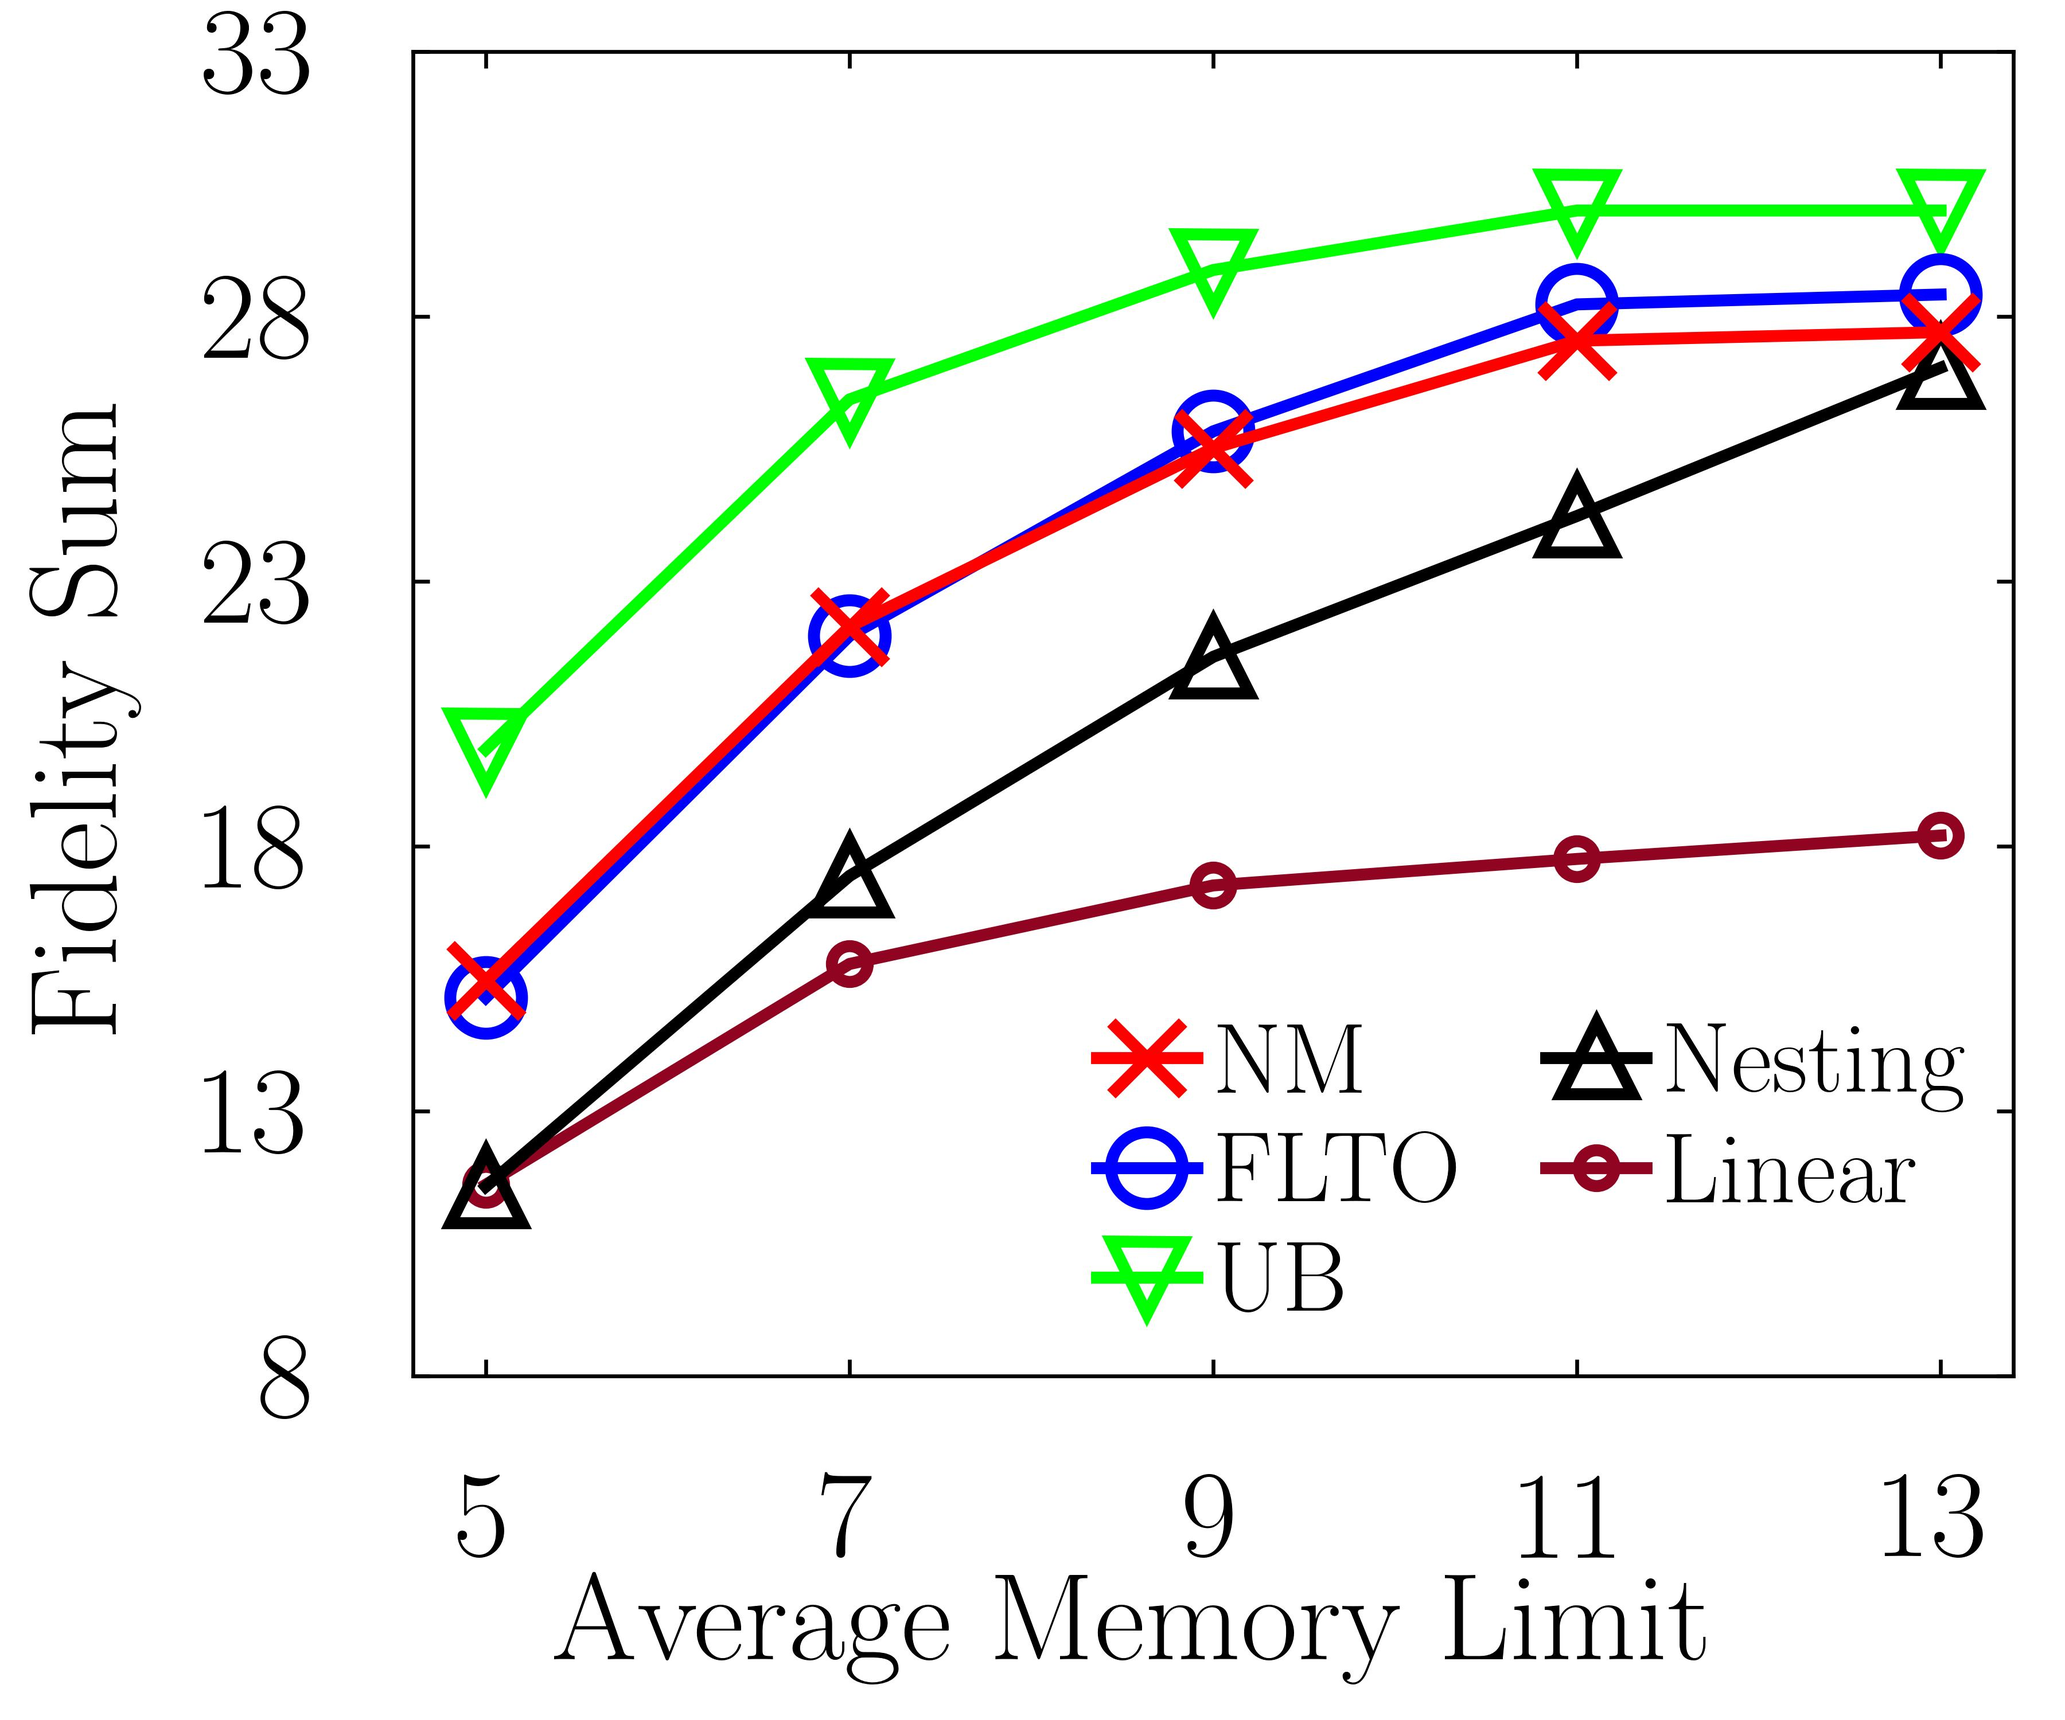
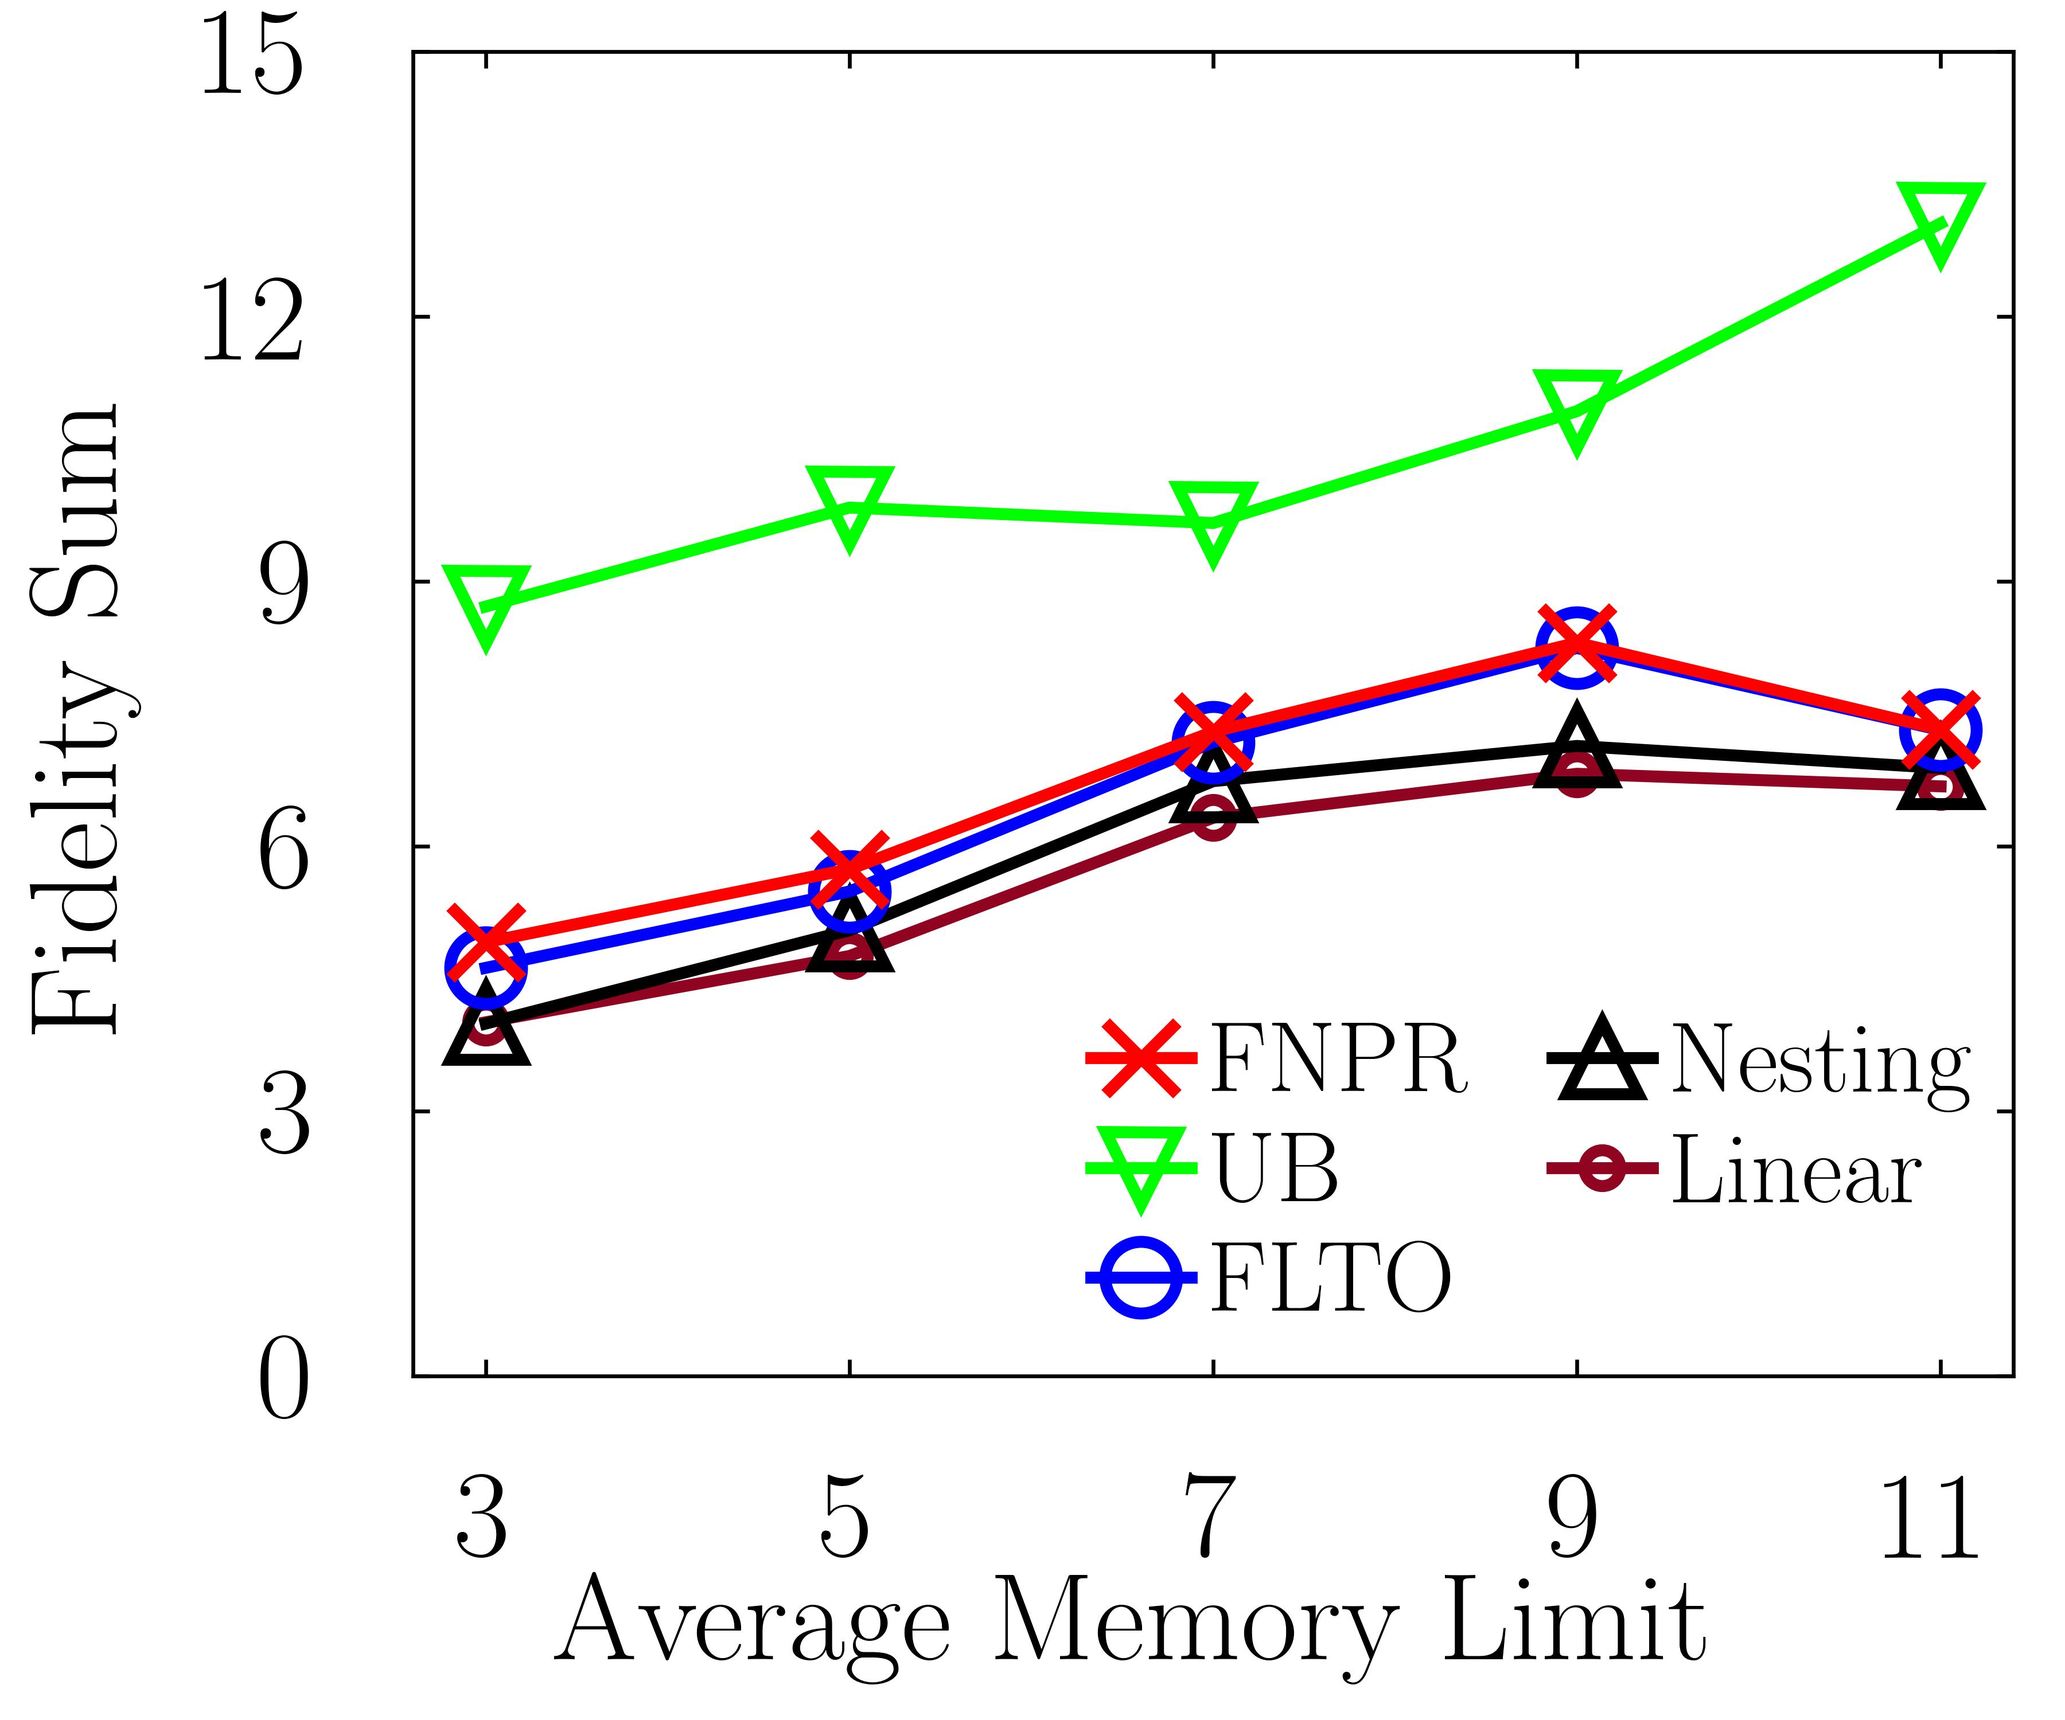
compile REPS

diff --git a/src/Network/PathMethod/REPS/REPS.cpp b/src/Network/PathMethod/REPS/REPS.cpp
@@ -15,57 +15,140 @@ void REPS::PFT_LP(vector<double> &t_plum, vector<map<pair<int, int>, double>> &f
     f_plum.clear();
     
     //do LP
-try {
+    try {
+        // Create an environment
+        GRBEnv env = GRBEnv(true);
+        env.set("OutputFlag", "0");
+        env.start();
 
-    // Create an environment
-    GRBEnv env = GRBEnv(true);
-    env.set("LogFile", "mip1.log");
-    env.start();
+        // Create an empty model
+        GRBModel model = GRBModel(env);
 
-    // Create an empty model
-        vector<map<pair<int, int>, GRBVar>> f(1000);    //fi(u, v)
-    GRBModel model = GRBModel(env);
-    for(int i = 0; i < 100; i++){
-        for(int u = 0; u < 100; u++){
-            for(int v = 0; v < 100; v++){
-                                f[i][make_pair(u, v)] = model.addVar(0.0, GRB_INFINITY, 0.0, GRB_CONTINUOUS, "f" + to_string(i) + "("+to_string(u)+", "+to_string(v) + ")");
-                        }
+        // Create variables
+        
+        
+        vector<map<pair<int, int>, GRBVar>> f(requests.size());    //fi(u, v)
+        for(int i = 0;i < (int)requests.size(); i++){
+            for(int u = 0; u < graph.get_num_nodes(); u++){
+                for(int v : graph.adj_list[u]){
+                    f[i][make_pair(u, v)] = model.addVar(0.0, GRB_INFINITY, 0.0, GRB_CONTINUOUS, "f" + to_string(i) + "(" + to_string(u) + ", " + to_string(v) + ")");
+                }
+            }
         }
-    }
+
+
+        vector<GRBVar> t;   //ti
+        for(int i = 0; i < (int)requests.size(); i++){
+            t.emplace_back(model.addVar(0.0, GRB_INFINITY, 0.0, GRB_CONTINUOUS, "t" + to_string(i)));
+        }
+
+        map<pair<int, int>, GRBVar> x; //x(u, v)
+        for(int u = 0; u < graph.get_num_nodes(); u++){
+            for(int v : graph.adj_list[u]) {
+                x[make_pair(u, v)] = model.addVar(0.0, GRB_INFINITY, 0.0, GRB_CONTINUOUS, "x(" + to_string(u) + ", " + to_string(v) + ")");
+            }
+        }
+
+        // Set objective: 
+        // maximize sum(ti)
         GRBLinExpr expr = 0;
+        for (auto ti : t)
+            expr += ti;
+        
+        model.setObjective(expr, GRB_MAXIMIZE);
 
-    // Create variables
-    GRBVar x = model.addVar(0.0, 1.0, 0.0, GRB_BINARY, "x");
-    GRBVar y = model.addVar(0.0, 1.0, 0.0, GRB_BINARY, "y");
-    GRBVar z = model.addVar(0.0, 1.0, 0.0, GRB_BINARY, "z");
+        // Add constraint: 1(a) 
+        for(int i=0;i<(int)requests.size();i++){
+            GRBLinExpr expr = 0;
+            int u = requests[i].first;
+            for(int v : graph.adj_list[u]){
+                expr += f[i][make_pair(u, v)];
+                expr -= f[i][make_pair(v, u)];
+            }
+            model.addConstr(expr == t[i], "1a_" + to_string(i));
+        }
 
-    // Set objective: maximize x + y + 2 z
-    model.setObjective(x + y + 2 * z, GRB_MAXIMIZE);
+        // Add constraint: 1(b) 
+        for(int i=0;i<(int)requests.size();i++){
+            expr = 0;
+            int u = requests[i].second;
+            for(int v : graph.adj_list[u]){
+                expr += f[i][make_pair(u, v)];
+                expr -= f[i][make_pair(v, u)];
+            }
+            model.addConstr(expr == GRBLinExpr(t[i], -1.0), "1b_"+ to_string(i));
+        }
 
-    // Add constraint: x + 2 y + 3 z <= 4
-    model.addConstr(x + 2 * y + 3 * z <= 4, "c0");
+        // Add constraint: 1(c) 
+        for(int i = 0; i < (int)requests.size(); i++){
+            expr = 0;
+            for(int u = 0; u < graph.get_num_nodes();u++){
+                if(u == requests[i].first)continue;
+                if(u == requests[i].second)continue;
+                for(int v : graph.adj_list[u]){
+                    expr += f[i][make_pair(u, v)];
+                    expr -= f[i][make_pair(v, u)];
+                }
+                model.addConstr(expr == 0, "1c(" + to_string(i) + ", " + to_string(u) + ")");
+            }
+        }
 
-    // Add constraint: x + y >= 1
-    model.addConstr(x + y >= 1, "c1");
+        // Add constraint: 1(d) 
+        for(int u = 0; u < graph.get_num_nodes(); u++){
+            for(int v : graph.adj_list[u]){
+                expr = 0;
+                for(int i = 0; i < (int)requests.size(); i++){
+                    expr += f[i][make_pair(u, v)];
+                    expr += f[i][make_pair(v, u)];
+                }
+                double p = graph.get_entangle_succ_prob(u, v);
+                model.addConstr(expr <= (x[make_pair(u, v)] * p), "1d(" + to_string(u) + ", " + to_string(v) + ")");
+            }
+        }
 
-    // Optimize model
-    model.optimize();
+        // Add constraint: 1(e) 
+        // for(int u = 0; u < graph.get_num_nodes(); u++){
+        //     for(int v : graph.adj_list[u]){
+        //         int c = INF;
+        //         model.addConstr(x[make_pair(u, v)] <= c, "1e(" + to_string(u) + ", " + to_string(v) + ")");
+        //     }
+        // }
 
-    cout << x.get(GRB_StringAttr_VarName) << " "
-         << x.get(GRB_DoubleAttr_X) << endl;
-    cout << y.get(GRB_StringAttr_VarName) << " "
-         << y.get(GRB_DoubleAttr_X) << endl;
-    cout << z.get(GRB_StringAttr_VarName) << " "
-         << z.get(GRB_DoubleAttr_X) << endl;
+        // Add constraint: 1(f) 
+        for(int  u = 0; u < graph.get_num_nodes(); u++){
+            expr = 0;
+            int m = graph.get_node_memory(u);
+            for(int v : graph.adj_list[u]){
+                expr += x[make_pair(u, v)];
+            }
+            model.addConstr(expr <= m, "1f(" + to_string(u) + ")");
+        }
 
-    cout << "Obj: " << model.get(GRB_DoubleAttr_ObjVal) << endl;
+        // Optimize model
+        model.optimize();
 
-  } catch(GRBException e) {
-    cout << "Error code = " << e.getErrorCode() << endl;
-    cout << e.getMessage() << endl;
-  } catch(...) {
-    cout << "Exception during optimization" << endl;
-  }
+        //get t
+        for(int i=0;i<(int)requests.size();i++){
+            t_plum.emplace_back(t[i].get(GRB_DoubleAttr_X));
+        }
+
+        //get fi
+        f_plum.resize(requests.size());
+        for(int i = 0; i < (int)requests.size(); i++) {
+            for(int u = 0; u < graph.get_num_nodes(); u++) {
+                for(int v : graph.adj_list[u]) {
+                    f_plum[i][make_pair(u, v)] = f[i][make_pair(u, v)].get(GRB_DoubleAttr_X);
+                }
+            }
+        }
+        cout << "Obj: " << model.get(GRB_DoubleAttr_ObjVal) << endl;
+
+    } catch(GRBException e) {
+        cout << "Error code = " << e.getErrorCode() << endl;
+        cout << e.getMessage() << endl;
+    }catch(...) {
+        cout << "Exception during optimization" << endl;
+    }
 }
 
 void REPS::build_paths(Graph _graph, vector<SDpair> _requests) {

diff --git a/plot/ChartGeneratorAuto.py b/plot/ChartGeneratorAuto.py
@@ -9,7 +9,7 @@ from matplotlib.offsetbox import AnchoredOffsetbox, TextArea, HPacker, VPacker
 
 class ChartGenerator:
     # data檔名 Y軸名稱 X軸名稱 Y軸要除多少(10的多少次方) Y軸起始座標 Y軸終止座標 Y軸座標間的間隔
-    def __init__(self, dataName, Xlabel, Ylabel, Xpow, Ypow, Ystart, Yend, Yinterval):
+    def __init__(self, dataName, Xlabel, Ylabel):
         filename = '../data/ans/Greedy_' + dataName
 
         if not os.path.exists(filename):
@@ -117,6 +117,15 @@ class ChartGenerator:
         maxData = 0
         minData = math.inf
 
+        Ypow = 0
+        Xpow = 0
+
+        for i in range(-10, -1, 1):
+            if i == 5:
+                continue
+            if float(x[numOfData - 1]) <= 10 ** i:
+                Xpow = (i - 2)
+
         Ydiv = float(10 ** Ypow)
         Xdiv = float(10 ** Xpow)
         
@@ -124,37 +133,42 @@ class ChartGenerator:
             x[i] = float(x[i]) / Xdiv
 
         for i in range(numOfAlgo):
+            if i == 5:
+                continue
             for j in range(numOfData):
                 y[i][j] = float(y[i][j]) / Ydiv
                 maxData = max(maxData, y[i][j])
                 minData = min(minData, y[i][j])
 
+
+        Yend = math.ceil(maxData)
+        Ystart = 0
+        Yinterval = (Yend - Ystart) / 5
+
+        if maxData > 1.1:
+            Yinterval = int(math.ceil(Yinterval))
+            Yend = int(Yend)
+        else:
+            Yend = 1
+            Ystart = 0
+            Yinterval = 0.2
+
+
         marker = ['x', 'v', 'o', '^', '.']
 
-        Per = [0, 1, 2, 3, 4, 5]
         # for i in range(numOfAlgo - 1, -1, -1):
-        for _ in range(numOfAlgo):
-            i = Per[_]
-            if _ == 5:
+        for i in range(numOfAlgo):
+            if i == 5:
                 continue
-            ax1.plot(x, y[i], color = color[i], lw = 2.5, linestyle = "-", marker = marker[i], markersize = 15, markerfacecolor = "none", markeredgewidth = 2.5, zorder = -_)
+            ax1.plot(x, y[i], color = color[i], lw = 2.5, linestyle = "-", marker = marker[i], markersize = 15, markerfacecolor = "none", markeredgewidth = 2.5, zorder = -i)
         # plt.show()
 
         plt.xticks(fontsize = Xticks_fontsize)
         plt.yticks(fontsize = Yticks_fontsize)
         
-        Per_AlgoName = ["FNPR", "UB", "FLTO", "Nesting", "Linear", "Path"]
-        
-        AlgoName = [0] * (numOfAlgo)
-        for _ in range(numOfAlgo):
-            if _ == 5:
-                continue
-            AlgoName[_] = Per_AlgoName[Per[_]]
-        
-        if "tau" in Xlabel:
-            bbox_pos = (0.3, 0.15)
-        else:
-            bbox_pos = (0.7, 0.15)
+        AlgoName = ["FNPR", "UB", "FLTO", "Nesting", "Linear"]
+                
+        bbox_pos = (0.7, 0.15)
         leg = plt.legend(
             AlgoName,
             loc = 10,
@@ -209,7 +223,7 @@ class ChartGenerator:
 if __name__ == "__main__":
     # data檔名 Y軸名稱 X軸名稱 Y軸要除多少(10的多少次方) Y軸起始座標 Y軸終止座標 Y軸座標間的間隔
     # ChartGenerator("numOfnodes_waitingTime.txt", "need #round", "#Request of a round", 0, 0, 25, 5)
-    Xlabels = ["request_cnt", "time_limit", "fidelity_threshold", "path_length", "avg_memory", "min_fidelity"]
+    Xlabels = ["request_cnt", "time_limit", "fidelity_threshold", "path_length", "avg_memory", "min_fidelity", "tao"]
     Ylabels = ["fidelity_gain", "succ_request_cnt"]
     # Ylabels = ["fidelity_gain"]
     # vector<string> X_names = {"request_cnt", "time_limit", "fidelity_threshold", "path_length", "avg_memory", "min_fidelity"};
@@ -221,6 +235,7 @@ if __name__ == "__main__":
     LabelsName["avg_memory"] = "Average Memory Limit"
     LabelsName["fidelity_threshold"] = "fidelity threshold"
     LabelsName["path_length"] = "path length"
+    LabelsName["tao"] = "$\\tau$"
     LabelsName["fidelity_gain"] = " Fidelity Sum"
     LabelsName["succ_request_cnt"] = "\#Accepted Requests"
     LabelsName["utilization"] = "Memory Utilization (\%)"
@@ -229,59 +244,4 @@ if __name__ == "__main__":
     for Xlabel in Xlabels:
         for Ylabel in Ylabels:
             dataFileName = Xlabel + '_' + Ylabel + '.ans'
-            if Xlabel == "request_cnt":
-                (Ystart, Yend, Yinternal) = (0, 20, 4)
-            if Xlabel == "time_limit":
-                (Ystart, Yend, Yinternal) = (8, 33, 5)
-            if Xlabel == "fidelity_threshold":
-                (Ystart, Yend, Yinternal) = (5, 35, 6)
-            if Xlabel == "avg_memory":
-                (Ystart, Yend, Yinternal) = (5, 35, 6)
-            ChartGenerator(dataFileName, LabelsName[Xlabel], LabelsName[Ylabel], 0, 0, Ystart, Yend, Yinternal)
-    # Xlabel
-    # 0 #RequestPerRound
-    # 1 totalRequest
-    # 2 #nodes
-    # 3 r
-    # 4 swapProbability
-    # 5 alpha
-    # 6 SocialNetworkDensity
-
-    # Ylabel
-    # 0 algorithmRuntime 
-    # 1 waitingTime
-    # 2 idleTime
-    # 3 usedQubits
-    # 4 temporaryRatio
-
-    # beta = "$\\it{\\beta}$ (# Req. per Time Slot) "
-    # waiting = "Avg. Waiting Time"
-    # swap = "Succ. Prob. of Swap. $\\mathcal{Q(v)}$"
-    # runtime = "Runtime (s)"
-    # ratio = "Temp. Sto. Ratio (%)"
-    # alpha = "$\\it{\\alpha}$ "
-    # timeslot = "Time Slot"
-    # remain = "# Remain. Req."
-    # r = "Max. Sto. Time $\\it{r}$ (# Time Slots)"
-
-
-    # # rpr + waiting
-    # ChartGenerator(getFilename(0, 1), beta, waiting, 0, 0, 0, 15, 3)
-    
-    # # alpha + ratio
-    # # ChartGenerator(getFilename(5, 4), alpha, ratio, -4, -2, 0, 100, 20)
-    
-    # # q + waiting
-    # ChartGenerator(getFilename(4, 1), swap, waiting, 0, 0, 0, 125, 25)
-    
-    # # q + ratio
-    # # ChartGenerator(getFilename(4, 4), swap, ratio, 0, -2, 0, 100, 20)
-
-    # # alpha + waiting
-    # ChartGenerator(getFilename(5, 1), alpha, waiting, -3, 0, 0, 30, 6)
-
-    # # r + waiting
-    # ChartGenerator(getFilename(3, 1), r, waiting, 0, 0, 1.9, 2.4, 0.2)
-    
-    # # timeslot + remain
-    # ChartGenerator("Timeslot_#remainRequest.txt", timeslot, remain + " (%)", 0, -2, 0, 100, 20)
+            ChartGenerator(dataFileName, LabelsName[Xlabel], LabelsName[Ylabel])
